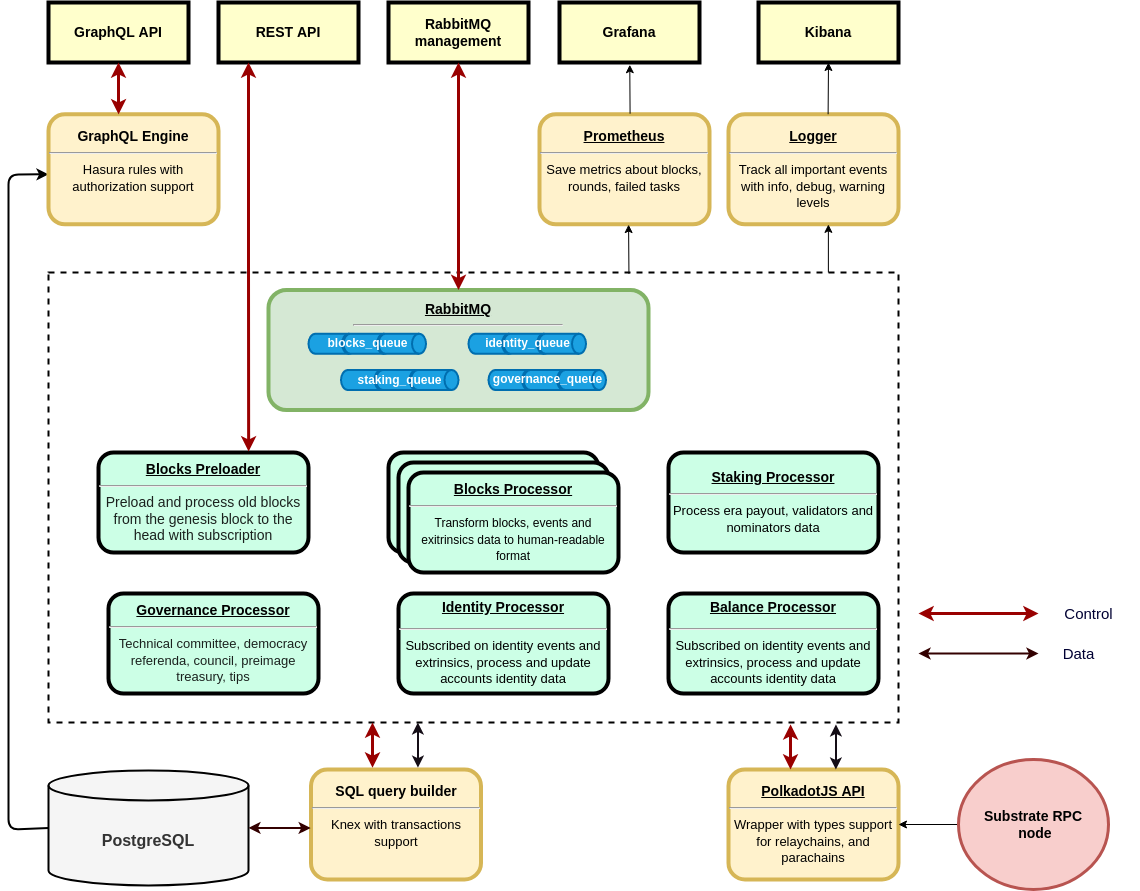
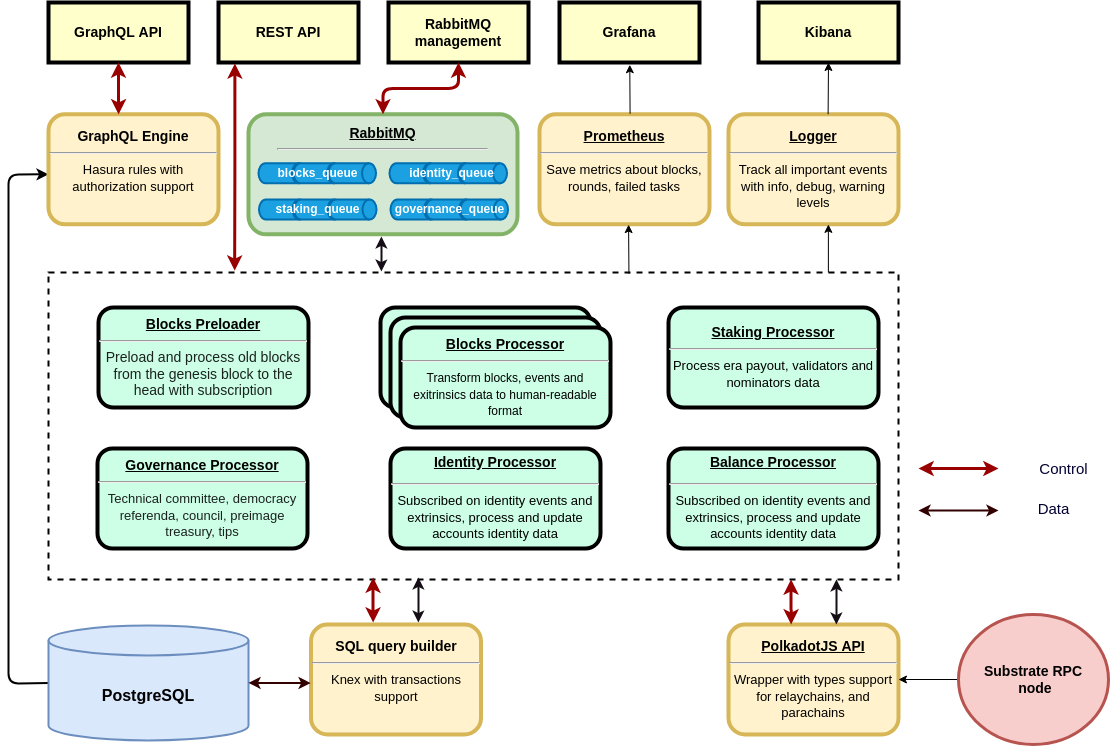
docs fixes

diff --git a/README.md b/README.md
@@ -13,6 +13,11 @@ Multi blockchain ETL solution is an interoperability-first data warehouse to pro
 - Staking and reward information for hundreds of validators and collators
 - Docker-compose in-house setup in 5 seconds
 
+# Data structure
+
+MBELT3 provide historical data for raw data, staking, identity, balances and governance
+
+![MBELT3 data diagram](./docs/data.png)
 
 # Dependencies
 
@@ -240,7 +245,7 @@ It is used as entrypoint SQL when Postgres started by ./db/Dockerfile from ./doc
 
 ![MBELT3 architecture diagram](./docs/arch.png)
 
-# How to add additional processor
+# How to add additional processor module
 
 To add an additional processor:
 
